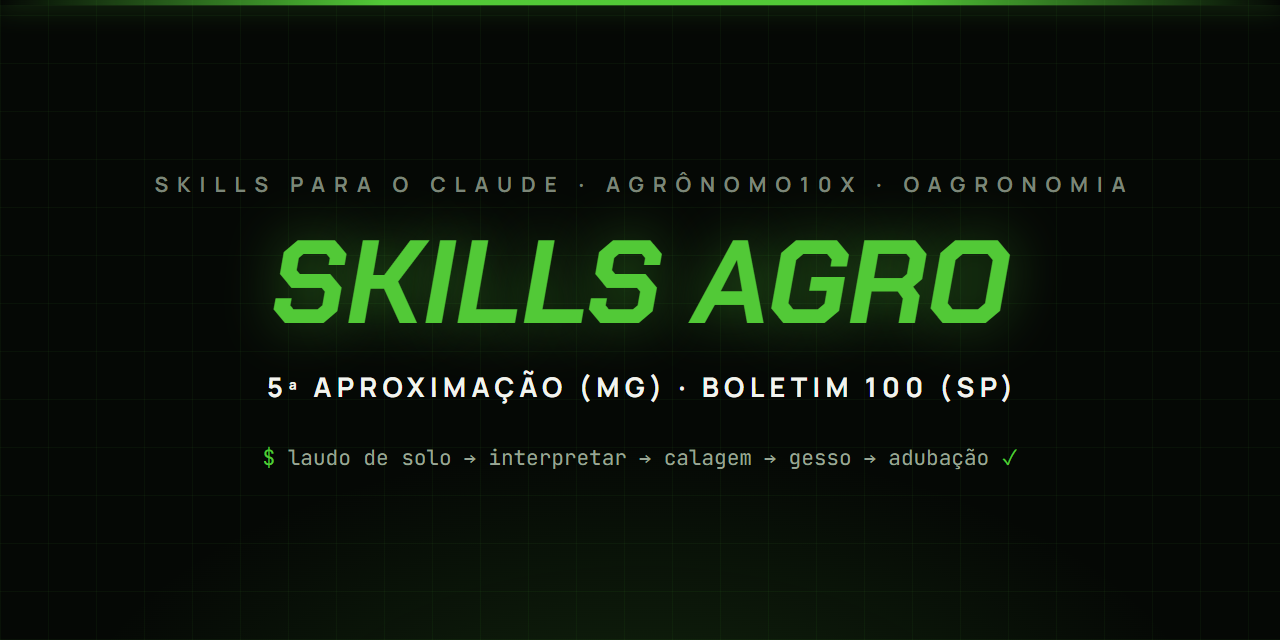
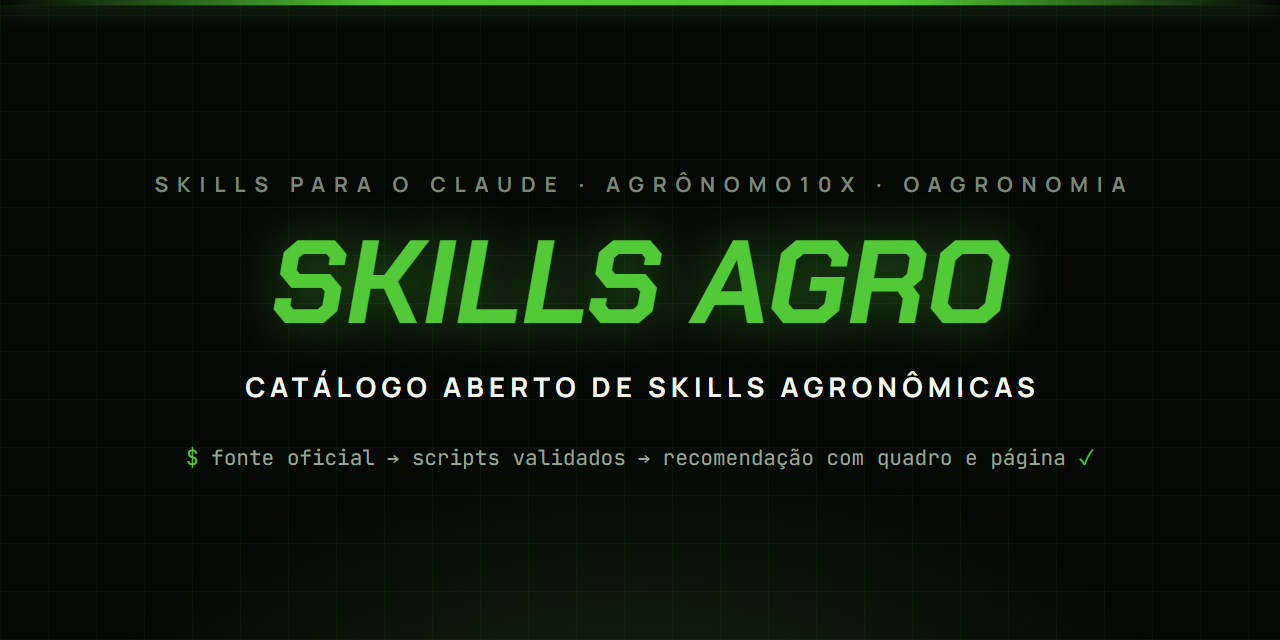
Catalogo generico: README raiz auto-gerado, README por skill, CI de zips
- README raiz vira catalogo: tabela entre marcadores SKILLS:START/END
  regenerada pelo CI a partir do frontmatter de cada SKILL.md
- Cada skill ganha README proprio (fonte, escopo, estrutura, instalacao)
- Workflow skills.yml: a cada push monta um zip por skill e recria a
  release latest (links de download nunca envelhecem)
- Social preview generico (sem citar skills especificas)

Changed region(s): [[0.1562, 0.6875, 0.8438, 0.75], [0.1875, 0.5625, 0.8125, 0.625]]

diff --git a/.github/scripts/tabela.py b/.github/scripts/tabela.py
@@ -1,0 +1,54 @@
+"""Regenera a tabela de skills do README raiz.
+
+Varre as pastas de primeiro nivel que contem SKILL.md, le a description do
+frontmatter e reescreve o bloco entre <!-- SKILLS:START --> e <!-- SKILLS:END -->.
+Roda no CI (workflow skills.yml) a cada push que toca uma skill.
+"""
+import re
+from pathlib import Path
+
+RAIZ = Path(__file__).resolve().parents[2]
+INICIO, FIM = "<!-- SKILLS:START -->", "<!-- SKILLS:END -->"
+
+
+def descricao(skill_md: str) -> str:
+    m = re.match(r"^---\n(.*?)\n---", skill_md, re.S)
+    if not m:
+        return ""
+    fm = m.group(1)
+    d = re.search(r"description:\s*>-?\n((?:[ \t]+.*\n?)+)", fm)
+    texto = (
+        re.sub(r"\s+", " ", d.group(1)).strip()
+        if d
+        else (re.search(r"description:\s*(.+)", fm) or [None, ""])[1].strip()
+    )
+    # so a primeira frase (a tabela e vitrine; o resto vive no README da skill)
+    ponto = texto.find(". ")
+    return texto[: ponto + 1] if 0 < ponto < 220 else texto[:220]
+
+
+linhas = []
+for pasta in sorted(RAIZ.iterdir()):
+    skill_md = pasta / "SKILL.md"
+    if not pasta.is_dir() or pasta.name.startswith(".") or not skill_md.exists():
+        continue
+    slug = pasta.name
+    linhas.append(
+        f"| [`{slug}`]({slug}/) | {descricao(skill_md.read_text(encoding='utf-8'))} "
+        f"| [zip](../../releases/latest/download/{slug}.zip) |"
+    )
+
+tabela = "\n".join(["| Skill | O que faz | Baixar |", "|---|---|---|", *linhas])
+readme = RAIZ / "README.md"
+conteudo = readme.read_text(encoding="utf-8")
+novo = re.sub(
+    re.escape(INICIO) + ".*?" + re.escape(FIM),
+    f"{INICIO}\n{tabela}\n{FIM}",
+    conteudo,
+    flags=re.S,
+)
+if novo != conteudo:
+    readme.write_text(novo, encoding="utf-8")
+    print(f"README atualizado ({len(linhas)} skills)")
+else:
+    print(f"README ja em dia ({len(linhas)} skills)")

diff --git a/README.md b/README.md
@@ -1,67 +1,77 @@
 # Skills Agro — agrônomo10X · OagronomIA
 
-Skills de agronomia no **formato oficial de Skills do Claude**, criadas pela equipe da
-comunidade [agrônomo10X](https://comunidade.agronomos.ia.br) (powered by **OagronomIA**).
-Cada skill transforma um boletim oficial de recomendação de corretivos e fertilizantes
-em um pacote que a IA sabe **aplicar**: interpreta o laudo de solo, roda os cálculos nos
-scripts e cita o quadro e a página da fonte.
+Catálogo aberto de **skills de agronomia no formato oficial de Skills do Claude**, mantido
+pela equipe da comunidade [agrônomo10X](https://comunidade.agronomos.ia.br) (powered by
+**OagronomIA**). Cada skill transforma uma fonte técnica oficial (boletim de recomendação,
+manual de cultura, norma) em um pacote que a IA sabe **aplicar**: interpreta os dados,
+roda os cálculos nos scripts e responde citando o quadro e a página da fonte.
 
-| Skill | Fonte oficial | Instalar |
+**O catálogo cresce**: cada pasta na raiz é uma skill completa, com README próprio
+contando o que ela faz, qual a fonte e como foi validada.
+
+## Skills disponíveis
+
+<!-- SKILLS:START -->
+| Skill | O que faz | Baixar |
 |---|---|---|
-| [`5a-aproximacao-mg`](5a-aproximacao-mg/) | **5ª Aproximação (CFSEMG/MG)** — Recomendações para o uso de corretivos e fertilizantes em Minas Gerais (Ribeiro, Guimarães & Alvarez V., eds., 1999) | [Releases](../../releases/latest) |
-| [`boletim-100-sp`](boletim-100-sp/) | **Boletim 100 (IAC/SP)** — Recomendações de adubação e calagem para o Estado de São Paulo, 2ª ed. (van Raij et al., 1997) | [Releases](../../releases/latest) |
+| [`5a-aproximacao-mg`](5a-aproximacao-mg/) | Recomendações para o uso de corretivos e fertilizantes em Minas Gerais (5ª Aproximação, CFSEMG, 1999). | [zip](../../releases/latest/download/5a-aproximacao-mg.zip) |
+| [`boletim-100-sp`](boletim-100-sp/) | Recomendações de adubação e calagem para o Estado de São Paulo (Boletim 100, IAC). | [zip](../../releases/latest/download/boletim-100-sp.zip) |
+<!-- SKILLS:END -->
+
+*Tabela e zips são gerados automaticamente a cada atualização — o link "zip" sempre
+baixa a última versão da skill.*
 
 ## Como instalar no Claude
 
-1. Baixe o `.zip` da skill na página de [**Releases**](../../releases/latest).
+1. Baixe o `.zip` da skill (coluna "Baixar" acima, ou na página de
+   [**Releases**](../../releases/latest)).
 2. No **claude.ai**, abra **Configurações → Capacidades → Skills** e envie o `.zip`
    (*Upload skill*). Se usar Skills dentro de um **Projeto**, envie o `.zip` lá.
-3. Ative a skill. Ao colar um laudo de solo de MG ou SP (ou pedir "calcule a calagem
-   pela 5ª Aproximação / pelo Boletim 100"), o Claude aciona a skill certa, roda os
-   scripts e responde citando os quadros do boletim.
+3. Ative a skill. Quando a conversa cair no assunto dela (ex.: um laudo de solo do
+   estado que ela cobre), o Claude aciona a skill sozinho, roda os scripts e responde
+   citando a fonte.
 
 > Membros da comunidade agrônomo10X também baixam estas skills prontas no catálogo
 > interno, em **Soluções → Skills**.
 
-## Como cada skill foi construída
+## Como cada skill é construída
 
-Cada boletim foi dividido em três camadas:
+Toda skill deste repositório segue a mesma anatomia:
 
-1. **Fórmulas de recomendação → scripts Python** (a parte de maior risco). Transcritas
-   das páginas de fórmulas e **validadas contra os exemplos resolvidos do próprio
-   boletim** — batem número a número. Rode qualquer script para ver os exemplos:
-   `python scripts/calagem.py`.
-2. **Interpretação agronômica → referências.** As classes de interpretação (baixo/médio/
-   alto etc.) de todos os elementos — P, K, Ca, Mg, S, micros, acidez/V%/m% — em
-   `references/interpretacao-solo.md`.
+1. **Fórmulas de recomendação → scripts** (a parte de maior risco). Transcritas das
+   páginas de fórmulas da fonte e **validadas contra os exemplos resolvidos da própria
+   publicação** — batem número a número. Rode qualquer script para ver os exemplos:
+   `python scripts/<nome>.py`.
+2. **Interpretação agronômica → referências.** As classes de interpretação da fonte
+   viram arquivos em `references/`.
 3. **Recomendações por cultura → referências.** As tabelas por cultura, incluindo os
-   elementos além de NPK (S, micronutrientes, parcelamento, época/modo, diagnose
-   foliar), nos arquivos `references/culturas-*.md`.
+   elementos além de NPK, parcelamento, época/modo e diagnose foliar.
 
-O `SKILL.md` de cada uma é o playbook: para que serve, para que **não** serve, e o fluxo
-interpretar → calagem → gesso → adubação por cultura.
+O `SKILL.md` de cada pasta é o playbook que a IA lê: para que serve, para que **não**
+serve, e o fluxo de trabalho na ordem certa. O `README.md` de cada pasta explica a
+skill para humanos.
 
 ## Revisão e contribuições
 
-Encontrou um número que diverge do boletim, um quadro mal interpretado ou um caso que a
-skill resolve errado? **Abra uma [issue de revisão técnica](../../issues/new/choose)**
-citando o quadro/página da fonte — toda correção é validada contra o boletim original
-antes de entrar. Sugestões de novas skills (outros boletins estaduais, manuais de
-cultura) também são bem-vindas pelas issues. Detalhes em
-[CONTRIBUTING.md](CONTRIBUTING.md).
+**Ninguém altera o catálogo diretamente** — toda mudança passa pela revisão da equipe:
+
+- Encontrou um número que diverge da fonte? Abra uma
+  [issue de revisão técnica](../../issues/new/choose) citando o quadro/página — toda
+  correção é validada contra a publicação original antes de entrar.
+- Quer propor uma mudança pronta? Abra um Pull Request (veja
+  [CONTRIBUTING.md](CONTRIBUTING.md)) — ele só entra após aprovação dos mantenedores.
+- Ideia de skill nova (outro boletim estadual, manual de cultura)? Abra uma issue de
+  sugestão dizendo qual fonte oficial ela operacionalizaria.
 
 ## Avisos importantes
 
 - As saídas são **recomendações técnicas de referência**; a decisão final é sempre do
   **engenheiro agrônomo responsável (ART)**, considerando histórico da gleba, cultivar,
   clima e manejo.
-- `5a-aproximacao-mg` vale para **Minas Gerais**/cerrado; `boletim-100-sp` para
-  **São Paulo**. Fora desses contextos, use a referência regional adequada.
-- Os números foram transcritos com fidelidade da fonte; pontos em que o texto original
-  era ambíguo estão sinalizados nos arquivos. Confirme decisões críticas no boletim.
-- Este repositório não reproduz os boletins — apenas operacionaliza suas recomendações,
-  com citação da fonte. Os direitos das obras originais pertencem aos seus editores
-  (CFSEMG e IAC).
+- Cada skill declara **sua fonte e sua abrangência regional** no próprio README e no
+  SKILL.md — fora desse contexto, use a referência adequada da sua região.
+- Este repositório não reproduz as publicações originais — apenas operacionaliza suas
+  recomendações, com citação da fonte. Os direitos das obras pertencem aos seus editores.
 
 ---
 

diff --git a/5a-aproximacao-mg/README.md b/5a-aproximacao-mg/README.md
@@ -1,0 +1,32 @@
+# 5ª Aproximação (CFSEMG/MG)
+
+Skill que operacionaliza as **Recomendações para o uso de corretivos e fertilizantes em
+Minas Gerais — 5ª Aproximação** (Ribeiro, Guimarães & Alvarez V., eds., CFSEMG, Viçosa,
+1999) — a referência oficial de fertilidade para MG, muito usada também no cerrado.
+
+**O que ela faz:** interpreta o laudo no padrão CFSEMG (P por argila/P-rem, K, Ca, Mg,
+S, micros, V%, m%), calcula a **calagem pelos dois métodos oficiais** (neutralização do
+Al³⁺ + elevação de Ca/Mg; saturação por bases), **gesso agrícola** (3 métodos),
+converte a recomendação em **mistura de simples ou fórmula comercial** e recomenda
+N-P-K e demais elementos **por cultura** (hortaliças, frutíferas, grandes culturas,
+floricultura, pastagens) — sempre citando o quadro e a página.
+
+## Estrutura
+
+- [`SKILL.md`](SKILL.md) — o playbook que a IA segue (escopo, limites e fluxo de trabalho).
+- `scripts/` — `fertilidade_solo.py` (índices e classes) · `calagem.py` (2 métodos + QC)
+  · `gessagem.py` (3 métodos + QG) · `adubacao_npk.py` (mistura/fórmula, sulco/cova).
+  Todos com os **exemplos resolvidos do boletim** embutidos: `python scripts/calagem.py`.
+- `references/` — interpretação (Quadros 5.1–5.5), diagnose foliar e tabelas por cultura.
+
+## Instalar
+
+Baixe [`5a-aproximacao-mg.zip`](../../../releases/latest/download/5a-aproximacao-mg.zip)
+e envie em **claude.ai → Configurações → Capacidades → Skills**.
+
+## Abrangência e avisos
+
+Vale para **Minas Gerais** e é amplamente usada no cerrado. Para São Paulo, use a skill
+[`boletim-100-sp`](../boletim-100-sp/). As saídas são referência técnica — a decisão
+final é do engenheiro agrônomo responsável (ART). Divergências? Abra uma
+[issue de revisão](../../../issues/new/choose) citando quadro e página.

diff --git a/boletim-100-sp/README.md b/boletim-100-sp/README.md
@@ -1,0 +1,32 @@
+# Boletim 100 (IAC/SP)
+
+Skill que operacionaliza o **Boletim Técnico 100 do Instituto Agronômico (IAC)**, 2ª
+edição (van Raij, Cantarella, Quaggio & Furlani, 1997) — a referência oficial de
+recomendação de adubação e calagem para o Estado de São Paulo.
+
+**O que ela faz:** interpreta o laudo no padrão IAC (P resina, K, Ca, Mg, S, micros,
+pH CaCl₂, V%), calcula a **calagem pela saturação por bases** com meta de V₂ por
+cultura, avalia a **qualidade do corretivo** (PN, PRNT, RE), indica **gesso** para o
+subsolo e recomenda **N-P-K, S e micronutrientes por cultura** (milho, soja, cana,
+mandioca, forrageiras, eucalipto…) — sempre citando o quadro e a página.
+
+## Estrutura
+
+- [`SKILL.md`](SKILL.md) — o playbook que a IA segue (escopo, limites e fluxo de trabalho).
+- `scripts/` — `fertilidade_solo.py` (SB, CTC, V%, m%, conversões de unidade) ·
+  `calagem.py` (NC por V% + PN/PRNT/RE + gesso). Todos com os **exemplos resolvidos do
+  boletim** embutidos: `python scripts/calagem.py`.
+- `references/` — interpretação, diagnose foliar e tabelas por cultura (cereais,
+  leguminosas/oleaginosas/raízes, cana e florestais, forrageiras).
+
+## Instalar
+
+Baixe [`boletim-100-sp.zip`](../../../releases/latest/download/boletim-100-sp.zip)
+e envie em **claude.ai → Configurações → Capacidades → Skills**.
+
+## Abrangência e avisos
+
+Vale para o **Estado de São Paulo**. Para Minas Gerais/cerrado, use a skill
+[`5a-aproximacao-mg`](../5a-aproximacao-mg/). As saídas são referência técnica — a
+decisão final é do engenheiro agrônomo responsável (ART). Divergências? Abra uma
+[issue de revisão](../../../issues/new/choose) citando quadro e página.
